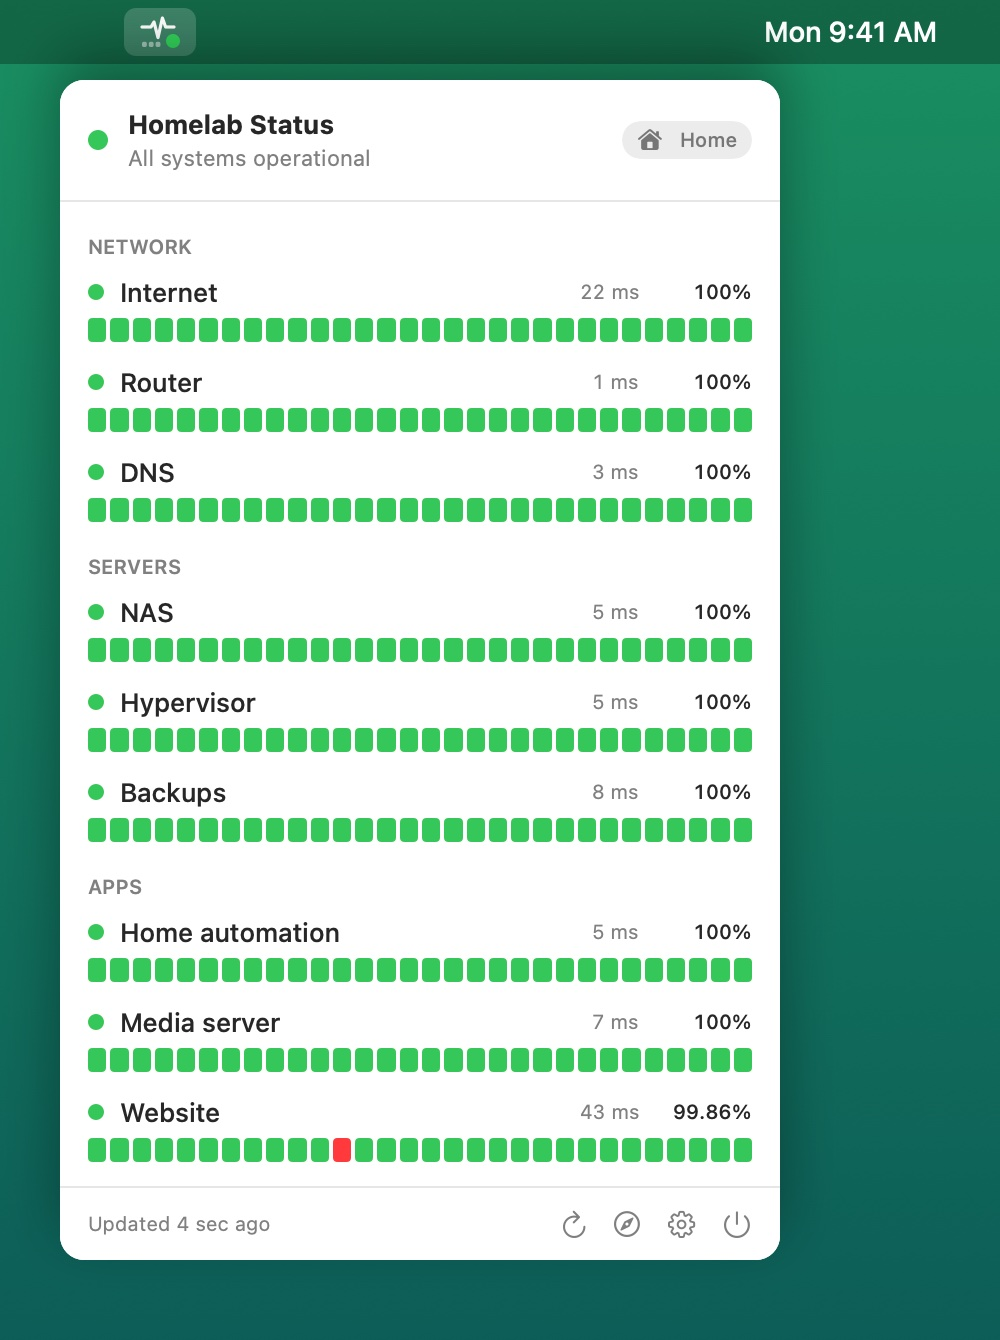
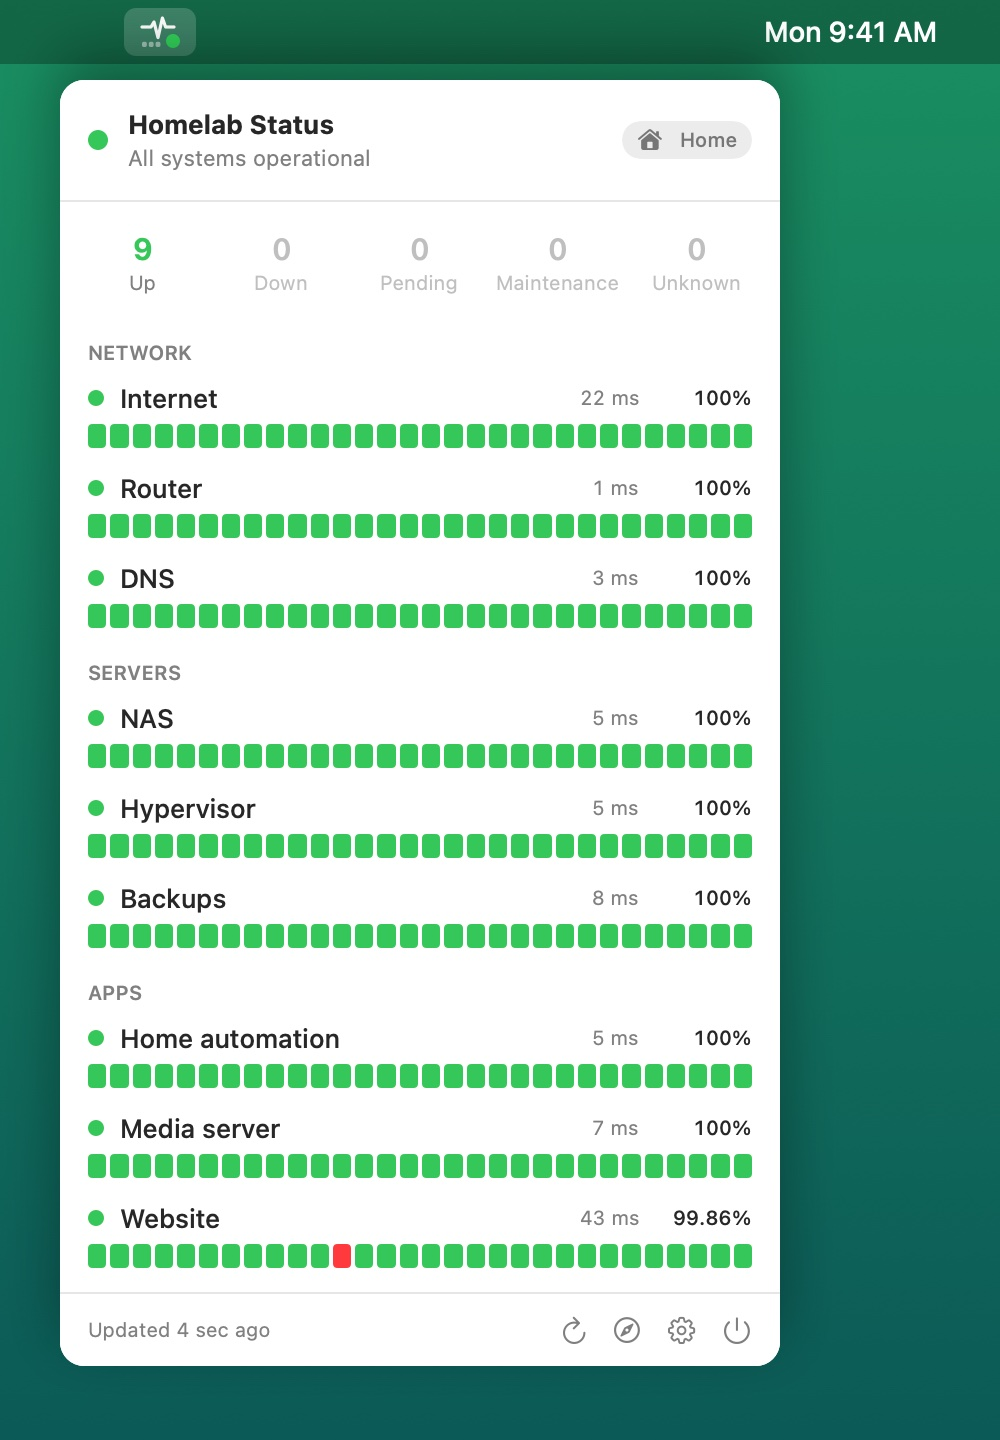
Update KumaStatusBar pages
Re-import from the KumaStatusBar repo for 1.8.0: a support section on
status counts, incidents, maintenance and tags, and new Mac and iPhone
screenshots with the status count row.

Changed region(s): [[0.062, 0.153, 0.775, 0.9485], [0.062, 0.0, 0.961, 0.1224], [0.62, 0.0918, 0.744, 0.1224]]

diff --git a/static/kumastatusbar/support.html b/static/kumastatusbar/support.html
@@ -92,6 +92,16 @@
         ntfy, Pushover or Bark.</li>
   </ul>
 
+  <h2>Incidents, maintenance and tags</h2>
+  <p>Above the monitors, a row of counts shows how many are up, down, pending, in maintenance and unknown, like
+  Uptime Kuma's Quick Stats (paused monitors aren't on status pages, so they aren't counted). Click or tap a
+  count to list only those monitors, and again to list them all. When your status
+  page has an incident posted or maintenance in progress, KumaStatusBar shows it there too, like Uptime Kuma's
+  own banners. To see each monitor's tags next to its name, turn on
+  <strong>Show monitor tags</strong> (<strong>Settings → General</strong> on the Mac, <strong>Settings →
+  Display</strong> on iPhone); the status page needs <strong>Show Tags</strong> turned on in Uptime Kuma. When
+  there isn't room for every tag, hover over them on the Mac, or tap them on iPhone, to see them all.</p>
+
   <h2>Using a Mac and an iPhone</h2>
   <ul>
     <li><strong>iCloud sync:</strong> with the App Store versions, your addresses, route and check interval stay

diff --git a/static/kumastatusbar/index.html b/static/kumastatusbar/index.html
@@ -138,7 +138,7 @@
       <a class="btn ghost" href="#setup">How it works</a>
     </div>
     </div>
-    <img class="hero-shot" src="images/1-overview-popover.jpg" width="1000" height="1340"
+    <img class="hero-shot" src="images/1-overview-popover.jpg" width="1000" height="1440"
          alt="KumaStatusBar's popover under the menu bar, listing homelab monitors with latency, uptime and heartbeat bars">
     </div>
   </div>
@@ -192,7 +192,7 @@
             <li><em>Simulate status changes</em> lets you see and hear it all without breaking anything.</li>
           </ul>
         </div>
-        <img class="shot popover" src="images/2-outage-popover.jpg" width="1000" height="1340" loading="lazy"
+        <img class="shot popover" src="images/2-outage-popover.jpg" width="1000" height="1440" loading="lazy"
              alt="The popover showing a Media server monitor down in red at the top of the list, with a red dot on the menu bar icon">
       </div>
 
